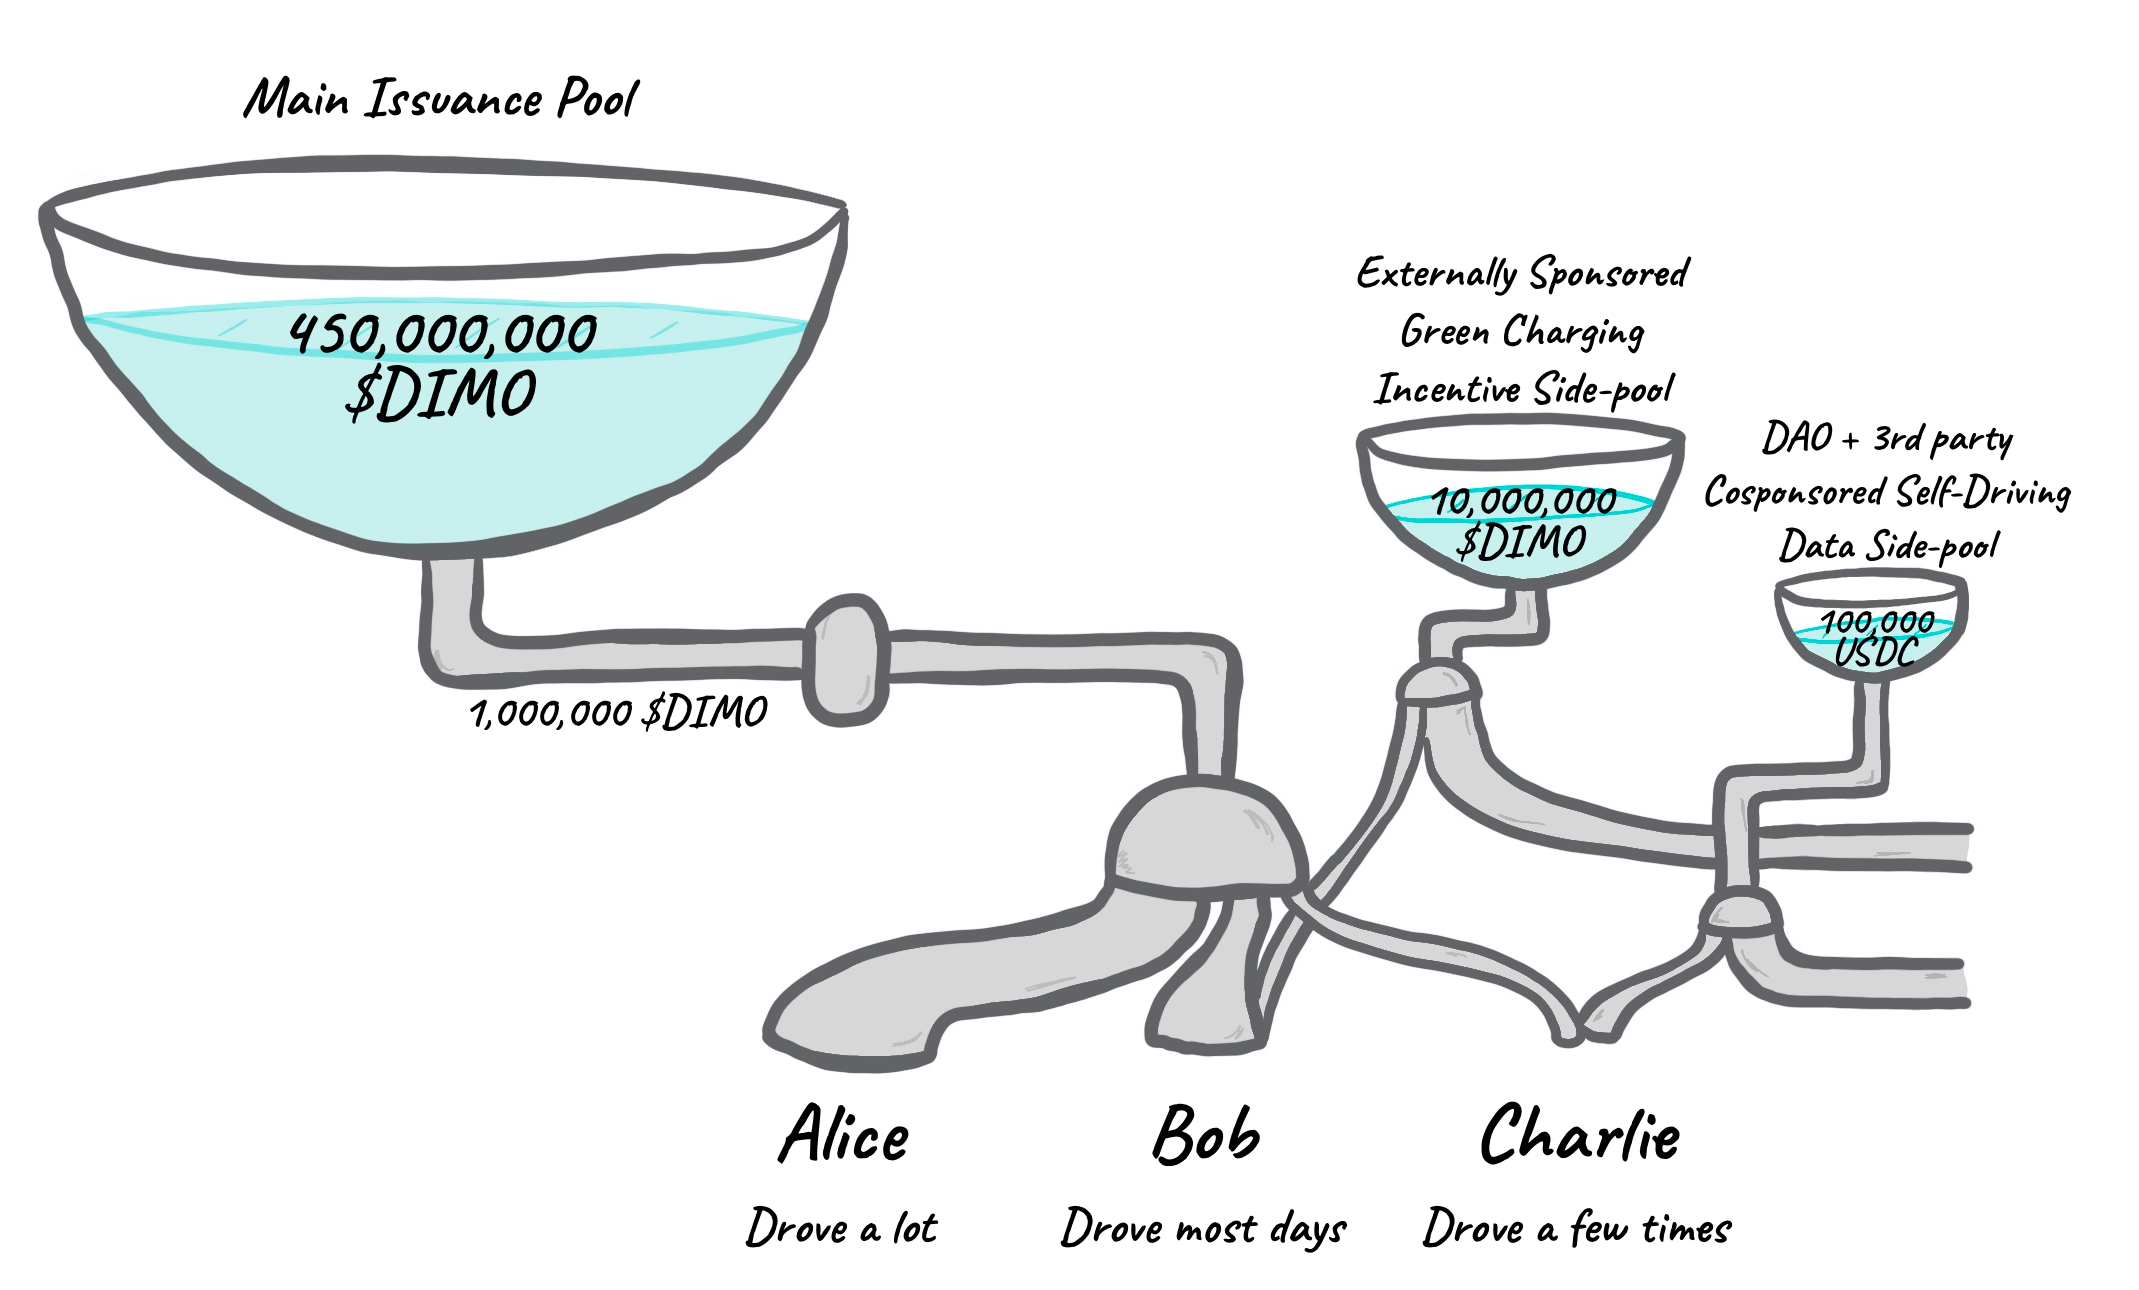
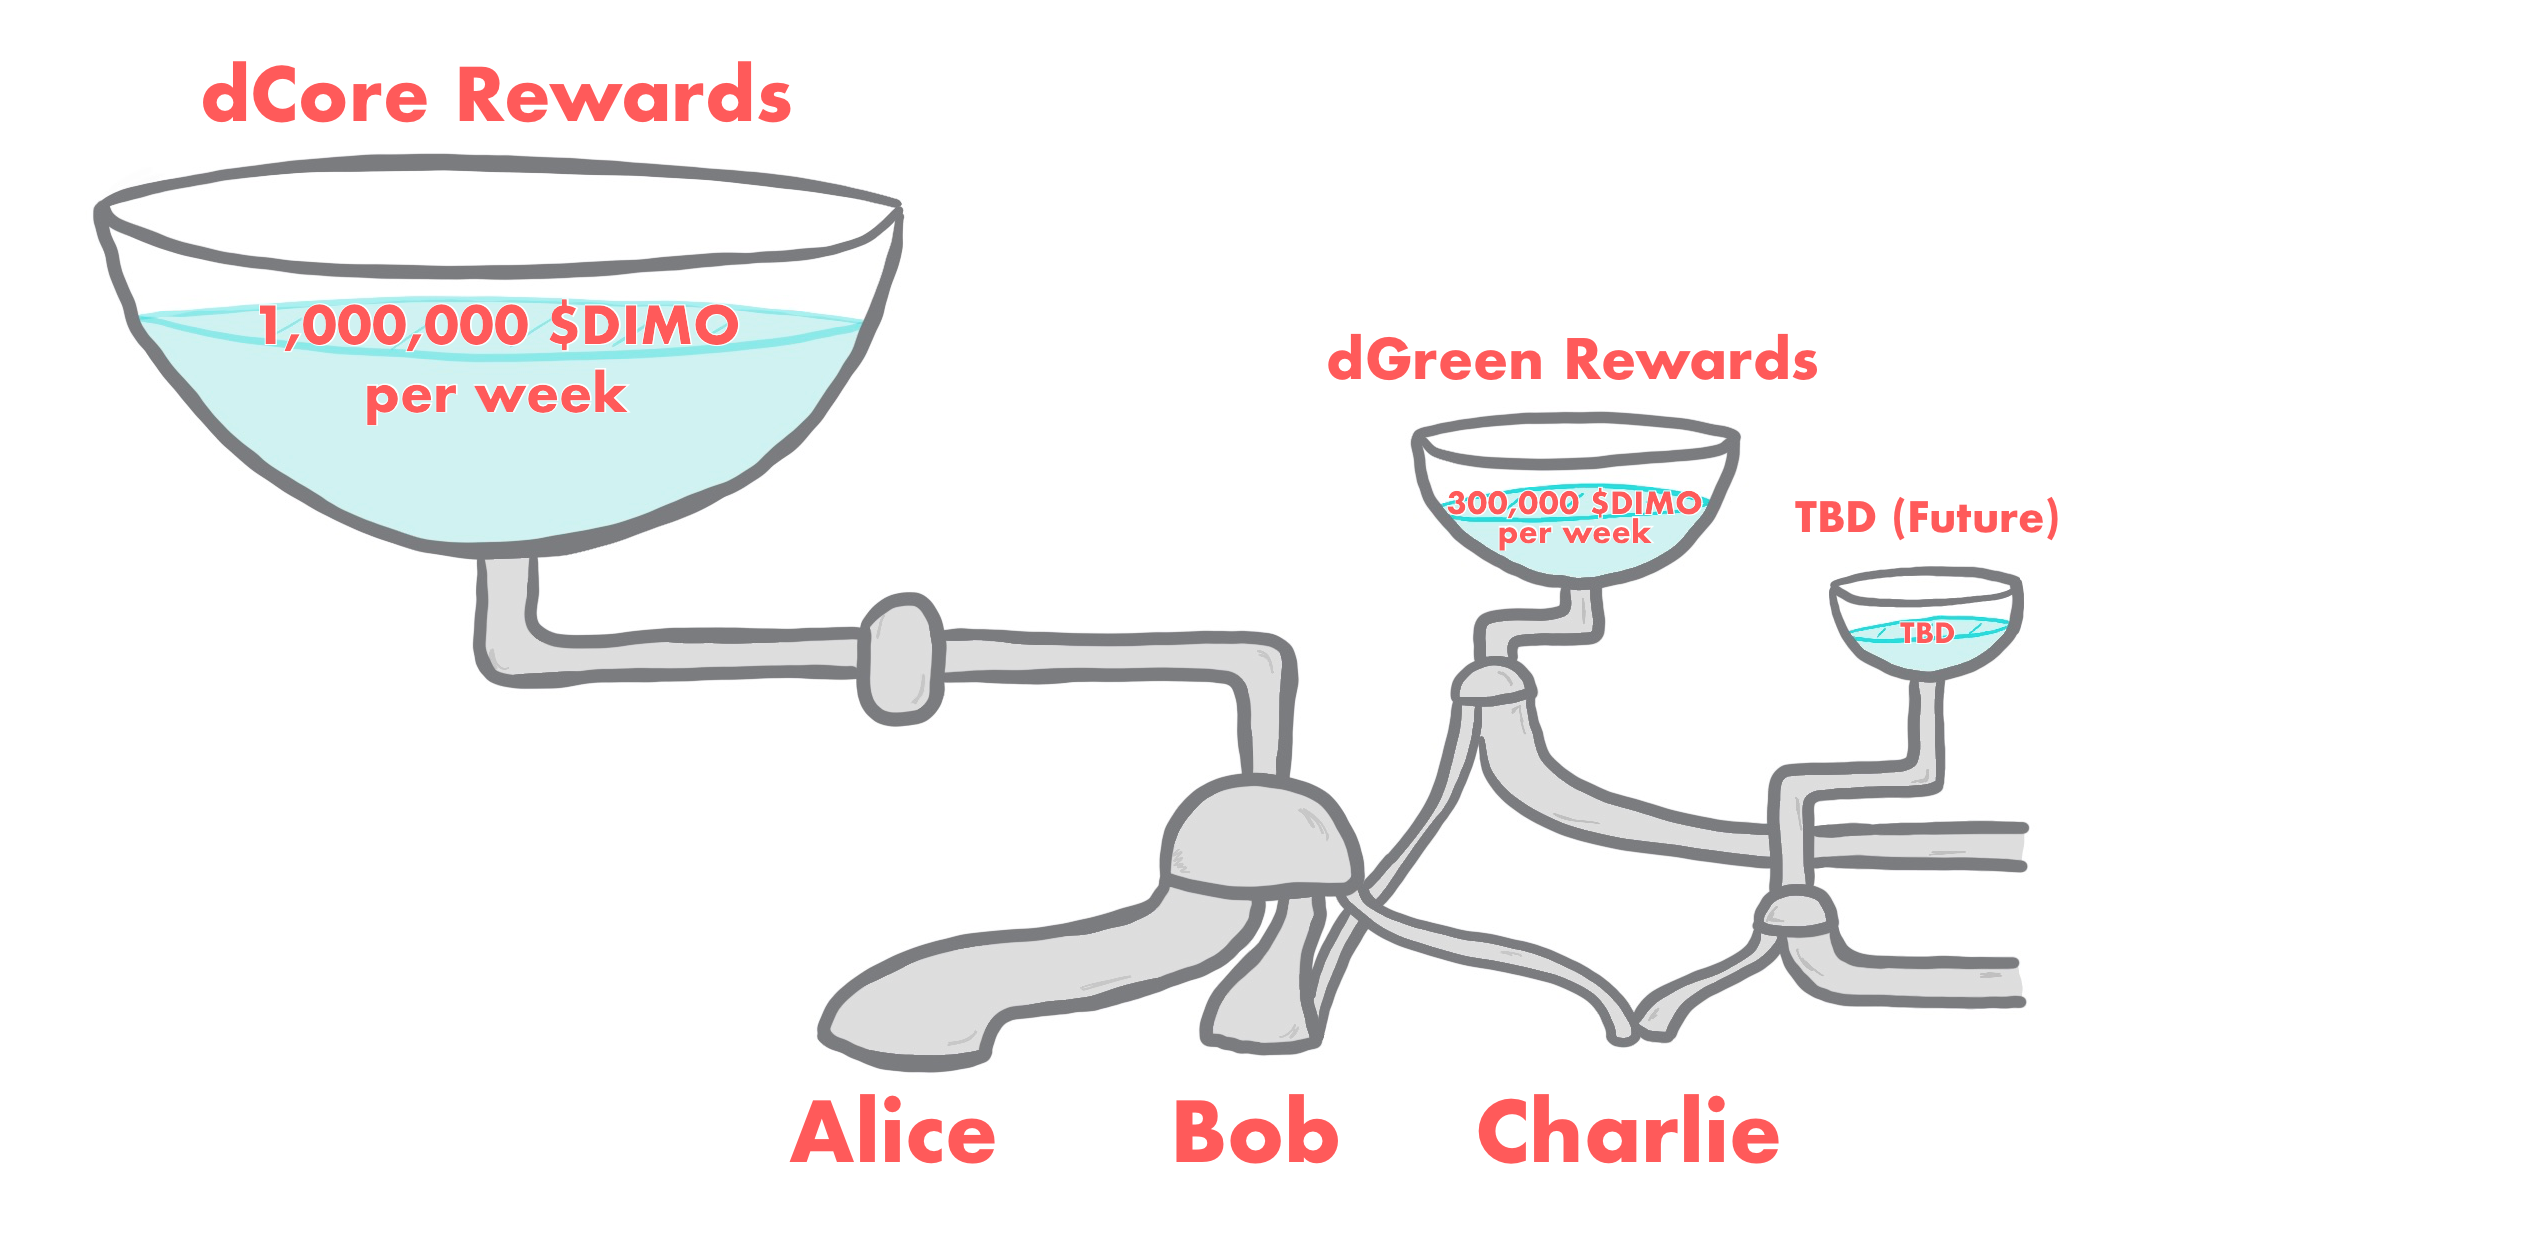
GitBook: [#115] new points formula

Changed region(s): [[0.0, 0.0305, 0.9874, 0.9759], [0.4628, 0.8539, 0.8022, 0.9759], [0.0926, 0.366, 0.1234, 0.3965]]

diff --git a/token/drive-to-earn.md b/token/drive-to-earn.md
@@ -6,46 +6,60 @@ description: How drivers and fleet operators can earn $DIMO
 
 Driver rewards will be based on a combination of baseline and market demand for vehicle data and connectivity.&#x20;
 
-**Baseline Demand Signal** refers to the concept of rewarding drivers based on how many miles they drive, what type of car they drive, and what types of data they provide, even if there is no end customer using their data. **This will be the sole driver issuance mechanic initially**. The goal here is to prime the network by incentivizing drivers to connect the types of cars and stream the types of data that we expect will be valuable to data consumers and app developers in the future.
+**Baseline Demand Signal** refers to the concept of rewarding drivers based on how long they've been connected, what type of car they drive, and what types of data they provide, even if there is no end customer using their data. **This will be the sole driver issuance mechanic initially**. The goal here is to prime the network by incentivizing drivers to connect the types of cars and stream the types of data that we expect will be valuable to data consumers and app developers in the future.
 
-**Market Demand Signal** refers to rewarding drivers based on what third parties are paying for their data. E.g., if Acme Corp subscribes to Alice's data for $10/month, Alice receives $10/month less  protocol fees.
+**Market Demand Signal** refers to rewarding drivers based on what third parties are paying for their data. E.g., if Acme Corp subscribes to Alice's data for $10/month, Alice receives $10/month less a small protocol fee or burn (amount TBD).
 
 In the early stages of DIMO's development, the vast majority of rewards will come from Baseline Demand Signal. As the network grows, this balance will likely shift the other way. This is comparable to other web3 networks like Helium, where their rewards from proof of coverage will shrink in comparison to rewards from data transfer over time.
 
 ### Rewards from Baseline Demand Signal
 
-As outlined in [Token Distribution](token-distribution.md), 450,000,000 $DIMO (45% of the total supply) will be allocated to fund the Baseline Demand Signal reward pool. This pool will be issued over 40 years by issuing 1,300,000 $DIMO per week for the first year, with issuance decreasing by 15% each year anniversary.
+450,000,000 $DIMO (45% of the total supply) will be allocated to fund the Baseline Demand Signal reward pools. These pools will be issued over 40 years by issuing 1,300,000 $DIMO to users per week for the first year, with issuance decreasing by 15% each year. For more on the allocation and distribution curve over time, read [Token Distribution](token-distribution.md).
 
 As implied above, the goal here is to allow actual market demand to gradually supplement and replace baseline demand, thus reducing and removing the need to inflate the circulating supply of $DIMO in perpetuity.
 
-Once the token distribution goes live on mainnnet, the weekly issuance will be allocated per the following methodology:
+A weekly issuance was chosen because driving behavior varies dramatically by time of day (i.e., it’s concentrated during peak commuting hours). If the issuance protocol were to distribute $DIMO by the hour, then drivers would be under-compensated during rush hour (as the reward would be split between a high percentage of drivers) and overcompensated for driving at 3AM. A weekly issuance allows for a predictable issuance schedule, transaction fee optimization, and relatively frequent rewards distributions without incentivizing abnormal driving behavior.
 
-Throughout each week drivers will earn points depending on the miles and minutes they drive, the types of data they opt-in to provide, and the rarity of their make and model. They will then earn $DIMO tokens based on the percentage of total points that they received for that period. For example, if Alice earns 500,000 points in a week, and a total of 5,000,000,000 points are earned across all drivers in that same week, Alice earns 130 $DIMO (0.01% of points \* 1,300,000 $DIMO issued).
+To start, two different [dTeams](../governance/dteams.md) will oversee the distribution of baseline rewards. dCore will facilitate the distribution of half of the 1,300,000 $DIMO issued weekly. dGreen will facilitate the distribution of the other 650,000 $DIMO per a separate rewards formula aimed at incentivizing pro-social behavior.
 
-![Planned points formula for allocating $DIMO weekly rewards from the simulated market demand pool](<../.gitbook/assets/Screen Shot 2022-01-20 at 3.56.08 PM.png>)
+![A visualization of the various baseline rewards pools](../.gitbook/assets/diagram.png)
 
-Curious how this might function in practice? Take a look at the following hypothetical payouts for a week where 1,500,000,000 points were generated across all drivers. Remember, this is only showing rewards from Baseline Demand Signal and is not taking into account any rewards earned from Market Demand Signal (as described further down).
+Once the token distribution goes live on mainnnet, the weekly issuance will be allocated per the following methodology from each pool.
 
-Curious how this might function in practice? Take a look at the following hypothetical payouts for a week where 1,500,000,000 points were generated across all drivers. Remember, this is only showing rewards from Simulated Demand Signal and is not taking into account any rewards earned from Market Demand Signal (as described further down).
+![](<../.gitbook/assets/Screen Shot 2022-02-21 at 12.48.24 PM.png>)
 
-![Hypothetical distributions by persona assuming all users collectively earned 1.5b points in that week](<../.gitbook/assets/Screen Shot 2022-01-04 at 4.14.41 PM.png>)
+In year one, the dCore rewards pool will issue 650,000 $DIMO per week to users based on how many points they've earned as a percentage of all the points earned by all users. For example, if in a given week, you earn 1% of all of the points earned by all drivers, you receive 6,500 $DIMO (1% of the 650,000 weekly distribution). Drivers earn points based on how long they've maintained an active connection and the quality of their data connection.
 
-It's important to note that vehicle data is NOT being sold or provided to 3rd party applications prior to the establishment of a Data Union, which will allow users to opt-in to sharing data and receiving Market Demand Signal rewards. Still, we've created our rewards formula to incentivize drivers to stream data that we expect will be valuable in the future. To explain the logic of the points multipliers and cap:
+Our aim is to:
 
-* Having a rare vehicle (make/model/year) helps us onboard a diverse set of vehicles;
-* Having the hardware miner connected is valuable because it makes vehicle data richer and more secure;
-* Electric vehicle batteries are new technology and their data is valuable; and
-* Limiting unnecessary driving: we don't want to incentivize people to drive around the clock purely for the sake of earning $DIMO and we want to make sure professional drivers don't dominate the distribution.
+* Reward and give control to those who show long-term support for DIMO;
+* Incentivize a continuous data connection, which tells a richer story on driver behavior and vehicle performance when maintained over a long-period of time;
+* Reward those with a hardware miner or Tesla's direct software connection because they provide better and more real-time vehicle data; and
+* Avoid rewarding based on distance or time traveled as not to incentivize wasteful and unnecessary driving.
 
-A weekly issuance was chosen because driving behavior varies dramatically by time of day (i.e., it’s concentrated during peak commuting hours). If the issuance protocol were to distribute $DIMO by the hour, then drivers would be under-compensated during rush hour (as the reward would be split between a high percentage of drivers) and overcompensated for driving at 3AM. A weekly issuance allows for a predictable issuance schedule, gas optimization, and relatively frequent rewards distributions without incentivizing abnormal driving behavior.
+In this example, Alice earns 2,000 points for having been connected between 20 to 36 weeks and 7,500 points for having a [DIMO Data Miner](https://shop.dimo.zone) installed in her Mach-E which has already been [decoded](https://github.com/DIMO-Network/opendbc). Her total is 9,500 points for the week.
 
-![](<../.gitbook/assets/Untitled 2.png>)
+If there are 10,000 other cars connected to DIMO and each car averages 6,000 points that week, Alice has earned 0.0158% of all the points generated that week (9,500 ÷ 60,000,000). Therefore, she receives approximately 103 $DIMO from this pool (0.0158% \* the weekly 650,000 dCore $DIMO issuance).
+
+![](<../.gitbook/assets/Screen Shot 2022-02-21 at 12.48.32 PM.png>)
+
+Because Alice drives an electric vehicle, she is also eligible to earn $DIMO from the dGreen rewards pool, which also issues 650,000 $DIMO per week in year one. The Mach-E is a 100% electric vehicle so she earns 5,000 points. There are only 40 other 2021 Mustang Mach-E's connected to DIMO this week so she earns another 3,000 points for the rarity of her car. In addition to encouraging eco-conscious decisions, dGreen also wants to incentivize the connection of a diverse selection of electric vehicles.
+
+In the example above, there are 6,000 electric and plug-in hybrid vehicles connected to DIMO. Alice's 8,000 points represent 0.0190% of all points (8,000 ÷ 42,000,000) meaning she receives approximately 124 $DIMO (0.0190% \* the weekly 650,000 dGreen $DIMO issuance).
+
+![](<../.gitbook/assets/Screen Shot 2022-02-21 at 12.48.44 PM.png>)
+
+Across both pools, Alice earned approximately 227 $DIMO in a week. If she continued to earn that amount each week, she would end the year with 11,790 tokens from her Mach-E.&#x20;
+
+$DIMO token holders can vote to alter these rewards formulas, alter the issuance amounts, and create new pools. Below you can see earnings for a various hypothetical personas.
+
+![](<../.gitbook/assets/Screen Shot 2022-02-21 at 12.53.06 PM.png>)
 
 ### Market Demand Signal
 
 The exact launch timeline and methodology for distributing passthrough rewards from actual market demand will be determined by a future vote of $DIMO token holders.
 
-Generally, we expect such a program to entail $DIMO flowing from data customers to data producers (drivers and fleet operators) based on the usage of their vehicle data and connectivity. This arrangement would be based on rates that the DAO negotiates with data consumers, who will most often be Data Unions (brokers). There will also be a small percentage of $DIMO that will be burned with each data sale transaction.
+Generally, we expect such a program to entail $DIMO flowing from data customers to data producers (drivers and fleet operators) based on the usage of their vehicle data and connectivity. This arrangement would be based on rates that the DAO negotiates with data consumers, who will most often be Data Unions (brokers). There will also be a small percentage of $DIMO that will be funnelled to the DIMO Foundation to fund future development or burned with each data sale transaction (exact terms TBD).
 
 ### Withdrawing rewards <a href="#eafc" id="eafc"></a>
 

diff --git a/development-roadmap/hardware-ecosystem.md b/development-roadmap/hardware-ecosystem.md
@@ -6,6 +6,8 @@ description: We plan to ship units according to the following schedule in 2022.
 
 The Digital Infrastructure Inc and AutoPi teams are working as hard as possible to meet this timeline for shipping hardware, and opening up additional supply.&#x20;
 
-We'll update this page, and our customers as scheduling changes are made.&#x20;
+We'll update this page and our customers as scheduling changes are made.&#x20;
+
+Echo Fleet refers to "Ecosystem" hardware. These devices will follow a spec set by the DIMO/AutoPi teams and&#x20;
 
 ![As always, these plans are subject to change. ](<../.gitbook/assets/image (10).png>)
